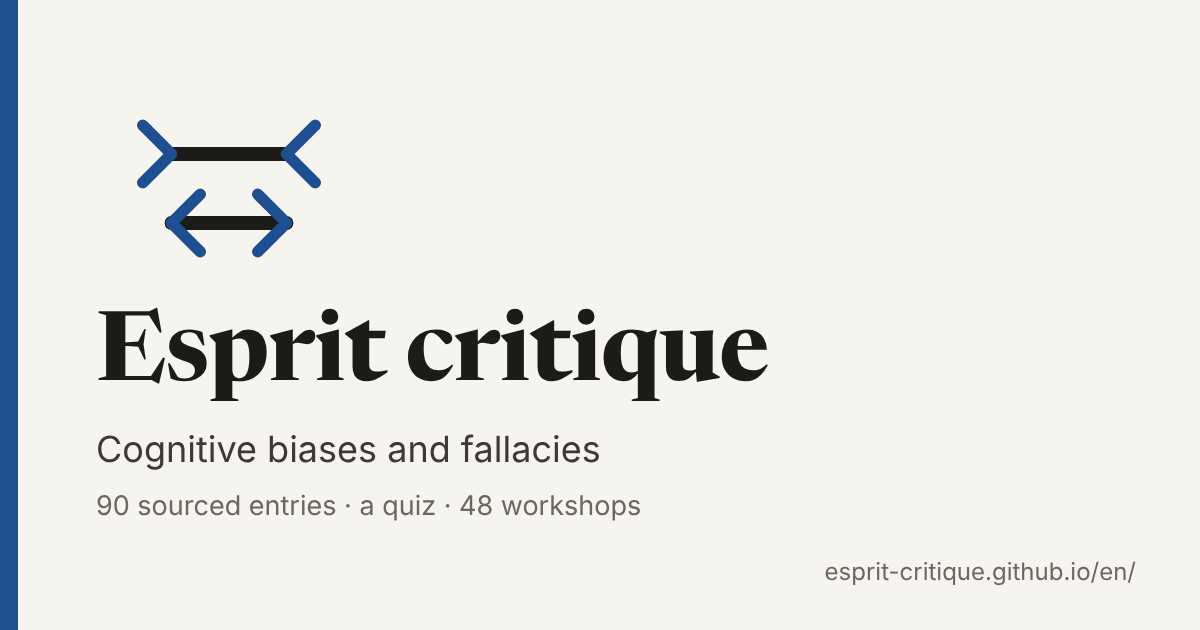
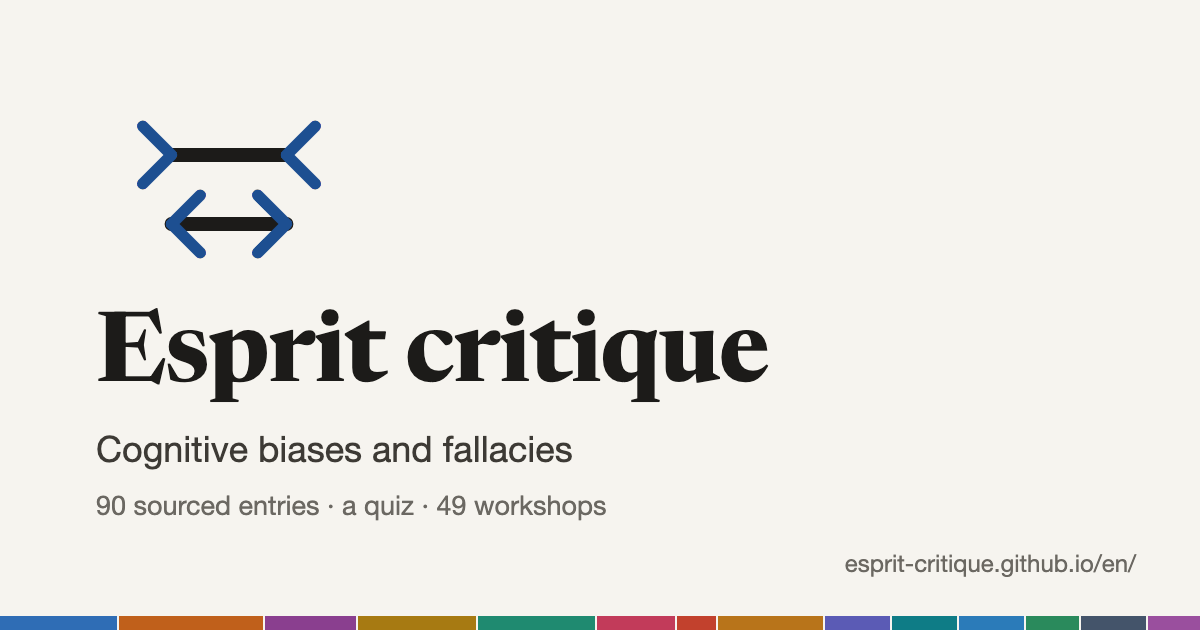
Images d'aperçu régénérées avec le filet du spectre (français et anglais)

diff --git a/tests/pages/apercu-en.html b/tests/pages/apercu-en.html
@@ -8,11 +8,26 @@ svg { width: 230px; height: 161px; fill: none; stroke-linecap: round; overflow: 
 h1 { font-family: "Newsreader", "Iowan Old Style", Palatino, Georgia, serif; font-optical-sizing: auto; font-size: 96px; line-height: 1; margin: 0 0 22px; font-weight: 700; letter-spacing: -1px; }
 p { margin: 0; font-size: 36px; color: #3d3a35; }
 .detail { margin-top: 18px; font-size: 27px; color: #6b6862; }
-.filet { position: absolute; left: 0; top: 0; bottom: 0; width: 18px; background: #1d4f91; }
-.adresse { position: absolute; right: 64px; bottom: 44px; font-size: 24px; color: #6b6862; }
-</style></head><body><div class="filet"></div><div class="bloc">
+/* Filet du spectre (DESIGN.md) : 14 catégories, largeur proportionnelle au nombre de fiches */
+.spectre { position: absolute; left: 0; right: 0; bottom: 0; height: 14px; display: flex; gap: 2px; background: #f6f4ef; }
+.s0 { flex: 9 1 0; background: #2f6db5; }
+.s1 { flex: 11 1 0; background: #c0601b; }
+.s2 { flex: 7 1 0; background: #8a3f8f; }
+.s3 { flex: 9 1 0; background: #a77a12; }
+.s4 { flex: 9 1 0; background: #1f8a70; }
+.s5 { flex: 6 1 0; background: #c23b5a; }
+.s6 { flex: 3 1 0; background: #c2412d; }
+.s7 { flex: 8 1 0; background: #b8741a; }
+.s8 { flex: 5 1 0; background: #5b5bb5; }
+.s9 { flex: 5 1 0; background: #0e7c86; }
+.s10 { flex: 5 1 0; background: #2b7bb9; }
+.s11 { flex: 4 1 0; background: #2a8a5c; }
+.s12 { flex: 5 1 0; background: #44546a; }
+.s13 { flex: 4 1 0; background: #9a4f9e; }
+.adresse { position: absolute; right: 64px; bottom: 52px; font-size: 24px; color: #6b6862; }
+</style></head><body><div class="spectre"><span class="s0"></span><span class="s1"></span><span class="s2"></span><span class="s3"></span><span class="s4"></span><span class="s5"></span><span class="s6"></span><span class="s7"></span><span class="s8"></span><span class="s9"></span><span class="s10"></span><span class="s11"></span><span class="s12"></span><span class="s13"></span></div><div class="bloc">
 <svg viewBox="0 0 40 28"><path class="trait" d="M10 8h20M10 20h20"/><path class="ailette" d="M10 8 5 3M10 8l-5 5M30 8l5-5M30 8l5 5M10 20l5-5M10 20l5 5M30 20l-5-5M30 20l-5 5"/></svg>
 <h1>Esprit critique</h1>
 <p>Cognitive biases and fallacies</p>
-<p class="detail">90 sourced entries · a quiz · 48 workshops</p>
+<p class="detail">90 sourced entries · a quiz · 49 workshops</p>
 </div><div class="adresse">esprit-critique.github.io/en/</div></body></html>

diff --git a/tests/pages/apercu.html b/tests/pages/apercu.html
@@ -8,11 +8,26 @@ svg { width: 230px; height: 161px; fill: none; stroke-linecap: round; overflow: 
 h1 { font-family: "Newsreader", "Iowan Old Style", Palatino, Georgia, serif; font-optical-sizing: auto; font-size: 96px; line-height: 1; margin: 0 0 22px; font-weight: 700; letter-spacing: -1px; }
 p { margin: 0; font-size: 36px; color: #3d3a35; }
 .detail { margin-top: 18px; font-size: 27px; color: #6b6862; }
-.filet { position: absolute; left: 0; top: 0; bottom: 0; width: 18px; background: #1d4f91; }
-.adresse { position: absolute; right: 64px; bottom: 44px; font-size: 24px; color: #6b6862; }
-</style></head><body><div class="filet"></div><div class="bloc">
+/* Filet du spectre (DESIGN.md) : 14 catégories, largeur proportionnelle au nombre de fiches */
+.spectre { position: absolute; left: 0; right: 0; bottom: 0; height: 14px; display: flex; gap: 2px; background: #f6f4ef; }
+.s0 { flex: 9 1 0; background: #2f6db5; }
+.s1 { flex: 11 1 0; background: #c0601b; }
+.s2 { flex: 7 1 0; background: #8a3f8f; }
+.s3 { flex: 9 1 0; background: #a77a12; }
+.s4 { flex: 9 1 0; background: #1f8a70; }
+.s5 { flex: 6 1 0; background: #c23b5a; }
+.s6 { flex: 3 1 0; background: #c2412d; }
+.s7 { flex: 8 1 0; background: #b8741a; }
+.s8 { flex: 5 1 0; background: #5b5bb5; }
+.s9 { flex: 5 1 0; background: #0e7c86; }
+.s10 { flex: 5 1 0; background: #2b7bb9; }
+.s11 { flex: 4 1 0; background: #2a8a5c; }
+.s12 { flex: 5 1 0; background: #44546a; }
+.s13 { flex: 4 1 0; background: #9a4f9e; }
+.adresse { position: absolute; right: 64px; bottom: 52px; font-size: 24px; color: #6b6862; }
+</style></head><body><div class="spectre"><span class="s0"></span><span class="s1"></span><span class="s2"></span><span class="s3"></span><span class="s4"></span><span class="s5"></span><span class="s6"></span><span class="s7"></span><span class="s8"></span><span class="s9"></span><span class="s10"></span><span class="s11"></span><span class="s12"></span><span class="s13"></span></div><div class="bloc">
 <svg viewBox="0 0 40 28"><path class="trait" d="M10 8h20M10 20h20"/><path class="ailette" d="M10 8 5 3M10 8l-5 5M30 8l5-5M30 8l5 5M10 20l5-5M10 20l5 5M30 20l-5-5M30 20l-5 5"/></svg>
 <h1>Esprit critique</h1>
 <p>Biais cognitifs et sophismes</p>
-<p class="detail">90 fiches sourcées · un quiz · 45 ateliers</p>
+<p class="detail">90 fiches sourcées · un quiz · 49 ateliers</p>
 </div><div class="adresse">esprit-critique.github.io</div></body></html>
